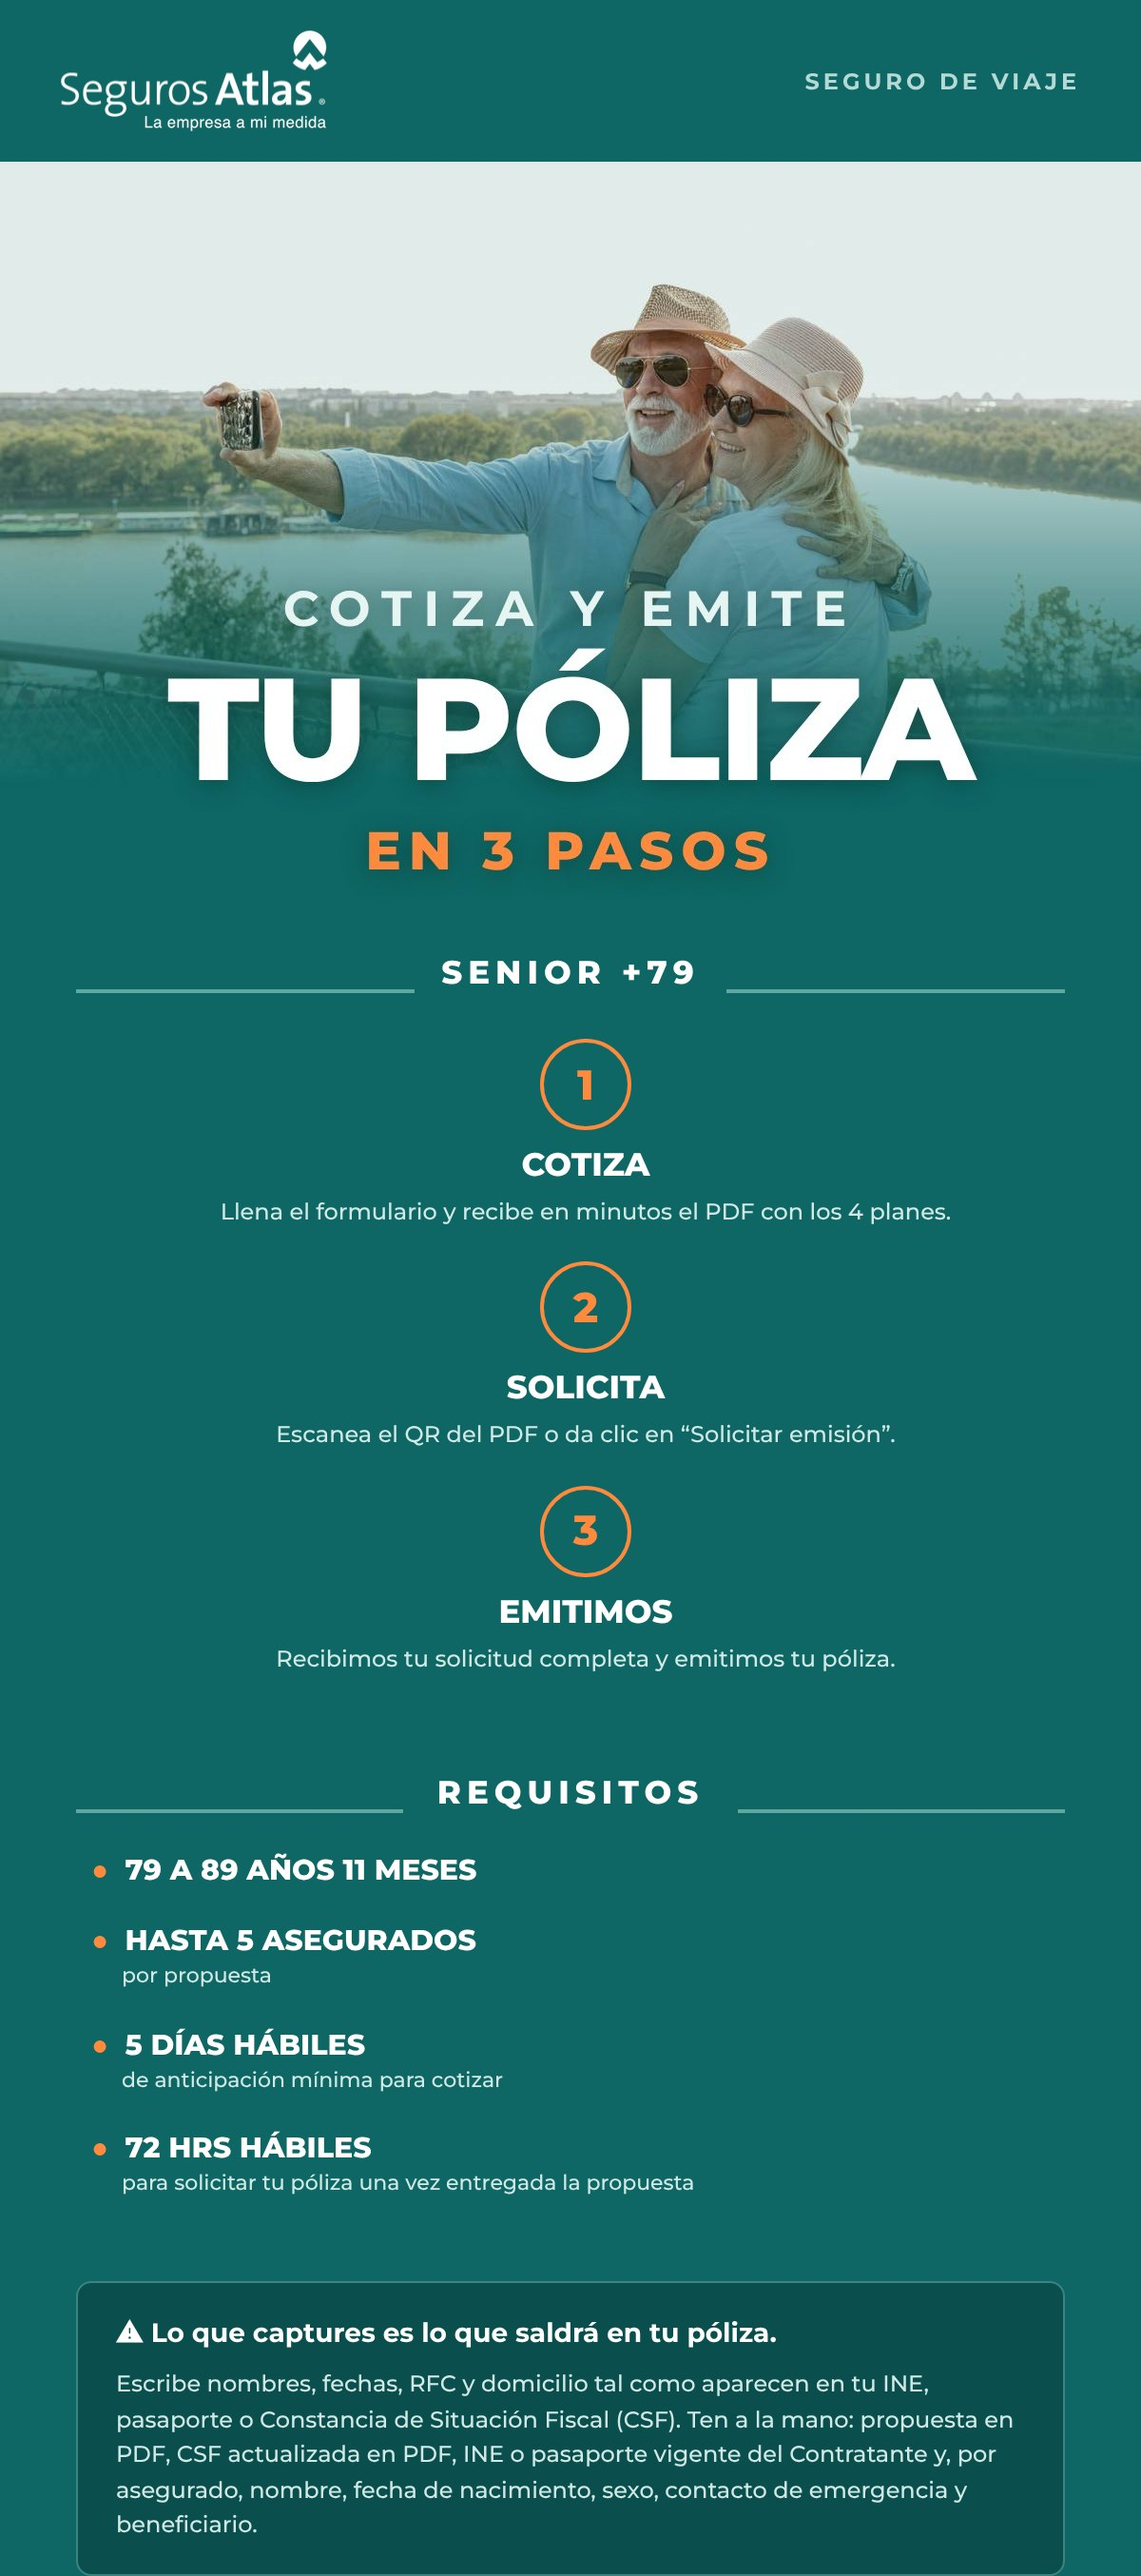
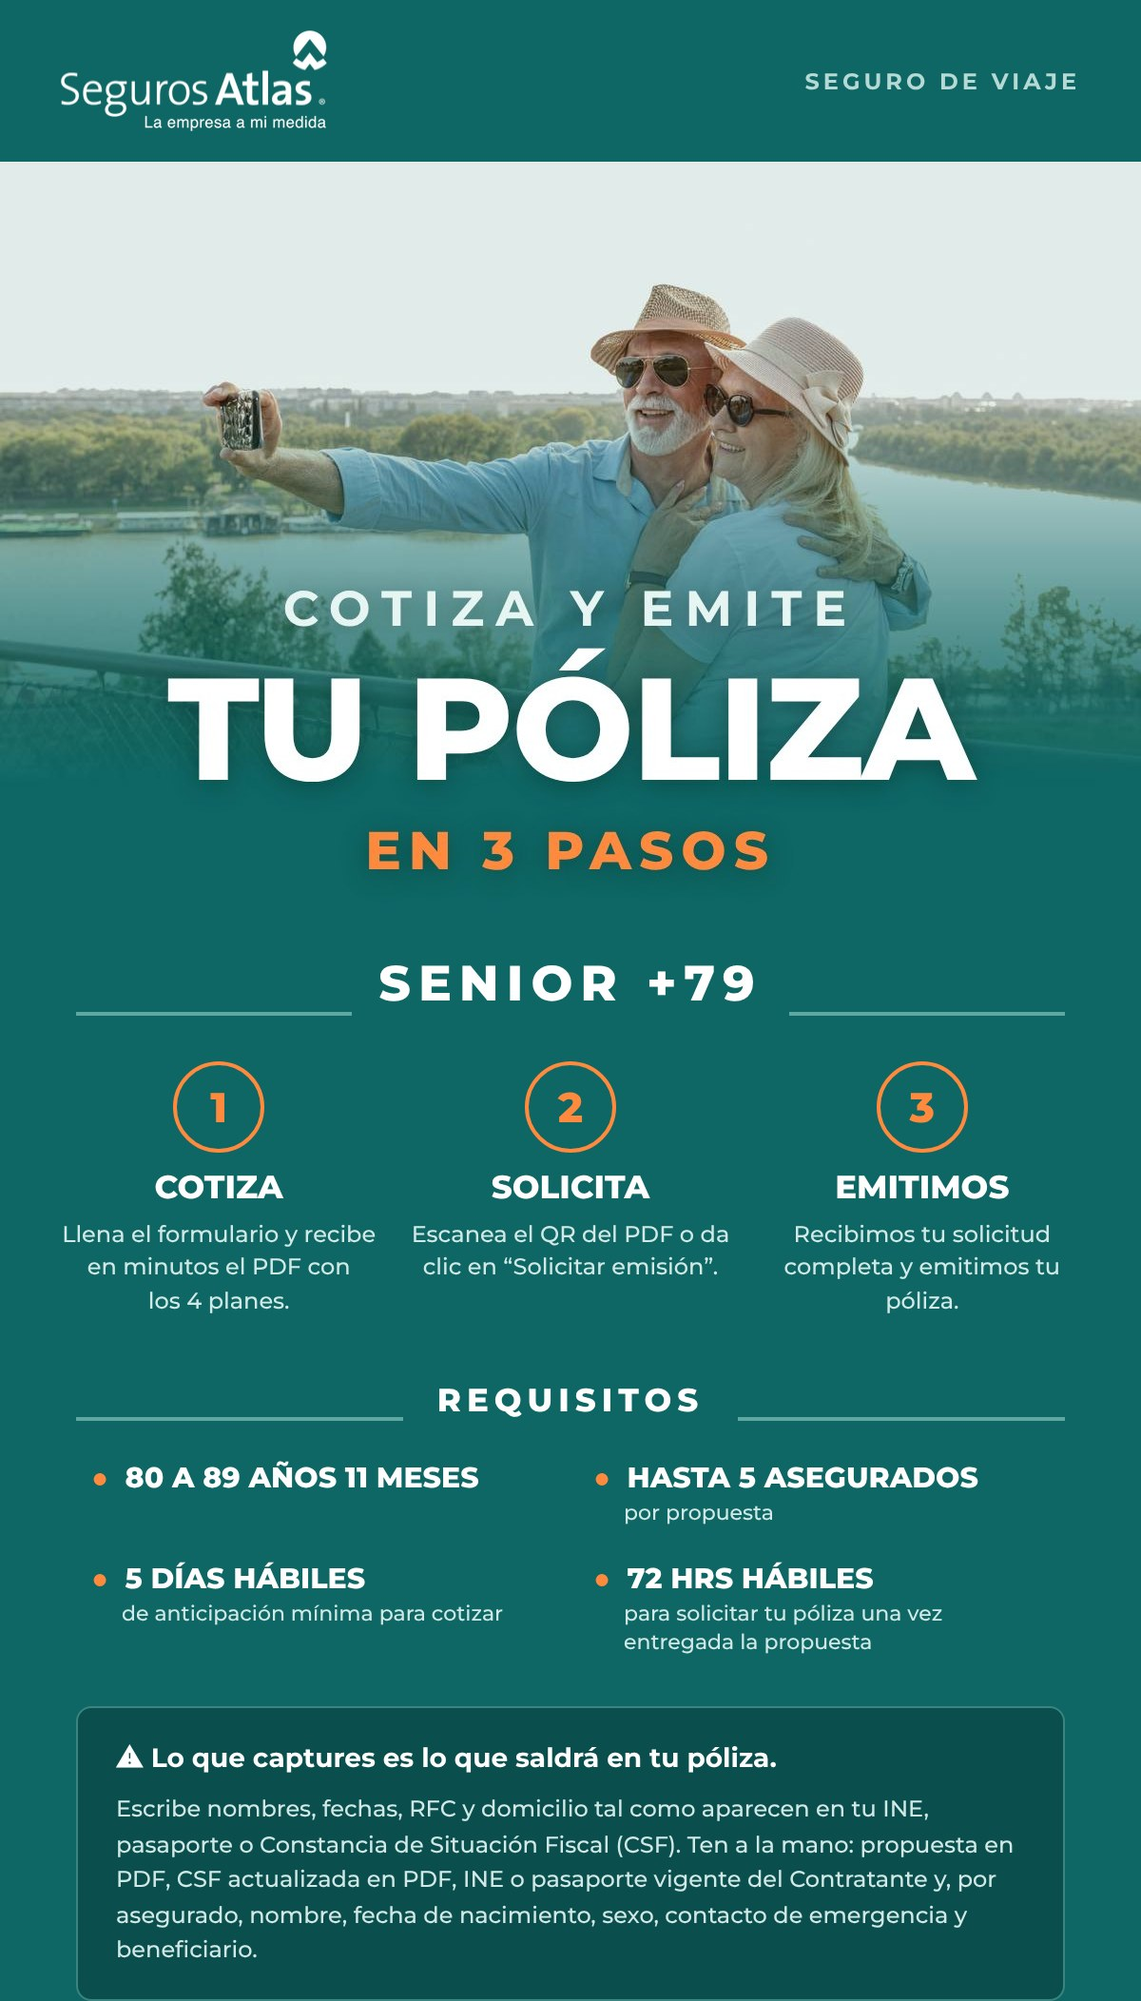
Correo flyer: SENIOR +79 más grande, 80 a 89 años 11 meses y vista de escritorio
Las imágenes se generan con ancho de escritorio (antes salían con el
acomodo de celular, con los pasos uno debajo de otro).

Claude-Session: https://claude.ai/code/session_01MAAp3uvr2RRfSuqqybjcWe

diff --git a/docs/comunicados/correo_flyer/Correo_flyer_SENIOR79.htm b/docs/comunicados/correo_flyer/Correo_flyer_SENIOR79.htm
@@ -13,18 +13,18 @@
 <body style="margin:0;padding:0;background-color:#FFFFFF;">
 <table role="presentation" width="600" cellpadding="0" cellspacing="0" border="0" align="center" style="border-collapse:collapse;width:600px;">
   <tr><td style="padding:0;line-height:0;font-size:0;">
-    <a href="https://docs.google.com/forms/d/e/1FAIpQLSfPedluEXJ32DFHxBjCRddBUzMgjsgK5OnwfZPluPuR6XHycw/viewform"><img src="flyer_1.jpg" width="600" height="1354" border="0"
-      alt="Seguros Atlas · Seguro de Viaje. Cotiza y emite tu póliza en 3 pasos. SENIOR +79: 1 Cotiza, 2 Solicita, 3 Emitimos. Requisitos: 79 a 89 años 11 meses, hasta 5 asegurados, 5 días hábiles de anticipación, 72 horas hábiles para solicitar tu póliza. Lo que captures es lo que saldrá en tu póliza."
-      style="display:block;width:600px;height:1354px;border:0;"></a>
+    <a href="https://docs.google.com/forms/d/e/1FAIpQLSfPedluEXJ32DFHxBjCRddBUzMgjsgK5OnwfZPluPuR6XHycw/viewform"><img src="flyer_1.jpg" width="600" height="1052" border="0"
+      alt="Seguros Atlas · Seguro de Viaje. Cotiza y emite tu póliza en 3 pasos. SENIOR +79: 1 Cotiza, 2 Solicita, 3 Emitimos. Requisitos: 80 a 89 años 11 meses, hasta 5 asegurados, 5 días hábiles de anticipación, 72 horas hábiles para solicitar tu póliza. Lo que captures es lo que saldrá en tu póliza."
+      style="display:block;width:600px;height:1052px;border:0;"></a>
   </td></tr>
   <tr><td style="padding:0;line-height:0;font-size:0;">
     <a href="https://docs.google.com/forms/d/e/1FAIpQLSfPedluEXJ32DFHxBjCRddBUzMgjsgK5OnwfZPluPuR6XHycw/viewform"><img src="flyer_2.jpg" width="600" height="124" border="0"
       alt="COTIZA AHORA" style="display:block;width:600px;height:124px;border:0;"></a>
   </td></tr>
   <tr><td style="padding:0;line-height:0;font-size:0;">
-    <a href="mailto:constanciafiscal@segurosatlas.com.mx"><img src="flyer_3.jpg" width="600" height="554" border="0"
+    <a href="mailto:constanciafiscal@segurosatlas.com.mx"><img src="flyer_3.jpg" width="600" height="399" border="0"
       alt="¿Necesitas factura? Antes de solicitar la emisión, registra tu CSF enviando un correo a constanciafiscal@segurosatlas.com.mx. Asunto: RFC del contratante. Contenido: en blanco. Adjunto: CONSTANCIA + RFC en PDF. Recibirás un correo con el estatus Registro Exitoso."
-      style="display:block;width:600px;height:554px;border:0;"></a>
+      style="display:block;width:600px;height:399px;border:0;"></a>
   </td></tr>
 </table>
 </body>

diff --git a/docs/comunicados/correo_flyer/fuente_flyer_html.htm b/docs/comunicados/correo_flyer/fuente_flyer_html.htm
@@ -56,7 +56,7 @@
     <table role="presentation" width="100%" cellpadding="0" cellspacing="0" border="0" style="border-collapse:collapse;">
       <tr>
         <td width="35%" style="border-bottom:2px solid #5FA8A2;font-size:1px;line-height:1px;">&nbsp;</td>
-        <td align="center" style="padding:0 14px;white-space:nowrap;font-family:Montserrat,Arial,sans-serif;font-size:17px;font-weight:800;letter-spacing:3px;color:#FFFFFF;">SENIOR +79</td>
+        <td align="center" style="padding:0 14px;white-space:nowrap;font-family:Montserrat,Arial,sans-serif;font-size:26px;font-weight:800;letter-spacing:4px;color:#FFFFFF;">SENIOR +79</td>
         <td width="35%" style="border-bottom:2px solid #5FA8A2;font-size:1px;line-height:1px;">&nbsp;</td>
       </tr>
     </table>
@@ -106,7 +106,7 @@
     <table role="presentation" width="100%" cellpadding="0" cellspacing="0" border="0" style="border-collapse:collapse;">
       <tr>
         <td class="col" width="50%" valign="top" style="padding:0 12px 16px 8px;font-family:Montserrat,Arial,sans-serif;">
-          <div style="font-size:15px;font-weight:800;color:#FFFFFF;"><span style="color:#FF8A3D;">&#9679;</span>&nbsp; 79 A 89 AÑOS 11 MESES</div>
+          <div style="font-size:15px;font-weight:800;color:#FFFFFF;"><span style="color:#FF8A3D;">&#9679;</span>&nbsp; 80 A 89 AÑOS 11 MESES</div>
         </td>
         <td class="col" width="50%" valign="top" style="padding:0 8px 16px 12px;font-family:Montserrat,Arial,sans-serif;">
           <div style="font-size:15px;font-weight:800;color:#FFFFFF;"><span style="color:#FF8A3D;">&#9679;</span>&nbsp; HASTA 5 ASEGURADOS</div>
